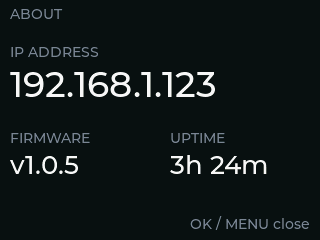
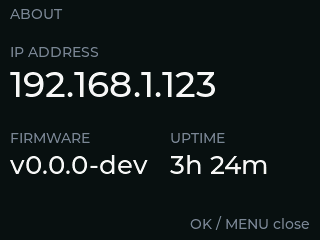
Derive FIRMWARE_VERSION from the git tag, not a hand-edited constant
Cutting a release was "edit version.h, commit, then tag", and the gap between
those steps was a real failure mode: the device compares the release tag_name
against FIRMWARE_VERSION with strcmp, so the two disagreeing silently breaks
updates in one direction or the other. CI guarded it. This removes it instead.

include/version.h no longer holds a version. FIRMWARE_VERSION is #ifndef'd with
a v0.0.0-dev fallback, and scripts/build_provenance.py injects the real one:

  tag build   the tag itself. This IS the string the OTA check compares, so it
              is exact by construction rather than by anyone remembering.
  otherwise   the most recent tag reachable from HEAD - what the build is BASED
              on - with ELS_BUILD_SUFFIX already carrying the branch and commit,
              so the pair reads "v1.0.5-master@9b9f04f*". `--abbrev=0` keeps it
              to the bare tag; describe's "v1.0.5-3-gabc1234" plus a suffix does
              not fit the splash's one 320px line.
  no git      the fallback, deliberately not a real-looking version so nothing
              mistakes a tarball build for a release.

Verified in all three contexts before committing, and the device build compiles
with the injected define (RAM 35.0%, Flash 77.0%, unchanged).

CONSEQUENCES, both good:

* release.yml's `verify` job is GONE. It compared the tag against version.h and
  that question can no longer be asked. What replaced it is stronger: the
[…]

Changed region(s): [[0.0625, 0.6417, 0.4688, 0.7292]]

diff --git a/scripts/build_provenance.py b/scripts/build_provenance.py
@@ -77,6 +77,25 @@ sha = _git("rev-parse", "--short", "HEAD")
 if ci_ref_type == "branch" and ci_ref_name:
     branch = ci_ref_name
 
+# THE VERSION IS THE TAG. Nothing hand-edits it, so a release cannot ship
+# naming a version other than the one it was tagged with - which was previously
+# a real failure mode standing between a commit and a tag.
+#
+#   tag build  -> the tag itself. This is the string the OTA check compares
+#                 against the release's tag_name, so it must be exact.
+#   otherwise  -> the most recent tag reachable from HEAD, which says what this
+#                 build is BASED ON. ELS_BUILD_SUFFIX already carries the branch
+#                 and commit, so the two together read "v1.0.5-master@abc1234*"
+#                 and there is no need to make the version itself long.
+#
+# `--abbrev=0` is what keeps it to the bare tag rather than describe's
+# "v1.0.5-3-gabc1234"; the splash renders version + suffix on one 320px line.
+version = None
+if ci_ref_type == "tag" and ci_ref_name:
+    version = ci_ref_name
+else:
+    version = _git("describe", "--tags", "--abbrev=0")
+
 # `git status --porcelain` is empty exactly when the tree is clean. An untracked
 # file counts: it may well be the thing that changed behaviour.
 status = _git("status", "--porcelain")
@@ -104,16 +123,26 @@ else:
         short_branch = branch if len(branch) <= 16 else branch[:15] + "~"
         suffix = "-{}@{}".format(short_branch, sha_label)
 
-env.Append(
-    CPPDEFINES=[
-        ("ELS_BUILD_IS_RELEASE", "1" if is_release else "0"),
-        ("ELS_BUILD_SHA", env.StringifyMacro(sha_label)),
-        ("ELS_BUILD_SUFFIX", env.StringifyMacro(suffix)),
-    ]
-)
+defines = [
+    ("ELS_BUILD_IS_RELEASE", "1" if is_release else "0"),
+    ("ELS_BUILD_SHA", env.StringifyMacro(sha_label)),
+    ("ELS_BUILD_SUFFIX", env.StringifyMacro(suffix)),
+]
+
+# Only override when git actually answered. A repo with no tags yet, or a build
+# from a tarball, falls through to include/version.h's fallback rather than
+# being stamped with an empty string.
+if version:
+    defines.append(("FIRMWARE_VERSION", env.StringifyMacro(version)))
+
+env.Append(CPPDEFINES=defines)
 
 print(
-    "build provenance: {} (branch={} sha={} dirty={})".format(
-        "RELEASE" if is_release else "not a release", branch, sha, dirty
+    "build provenance: {} version={} (branch={} sha={} dirty={})".format(
+        "RELEASE" if is_release else "not a release",
+        version if version else "<version.h fallback>",
+        branch,
+        sha,
+        dirty,
     )
 )

diff --git a/include/version.h b/include/version.h
@@ -1,10 +1,26 @@
 #ifndef ELS_VERSION_H
 #define ELS_VERSION_H
 
-// Firmware version. Must match the git tag used for the GitHub release
-// (leading "v"), because the OTA version check compares this string against the
-// release's `tag_name` verbatim. Bump this before publishing a new release.
-#define FIRMWARE_VERSION "v1.0.5"
+// Firmware version. DERIVED FROM THE GIT TAG, not typed here.
+//
+// scripts/build_provenance.py injects it: the tag itself on a tag build, and
+// the most recent tag on any other build (where ELS_BUILD_SUFFIX already says
+// which branch and commit it really is). It has to match the release tag
+// verbatim, because the OTA check compares this string against the release's
+// `tag_name` with strcmp - and it now does so by construction rather than by
+// somebody remembering.
+//
+// This used to be a hand-edited constant, which meant cutting a release was
+// "edit this line, commit, then tag" and left a whole failure mode where the
+// two disagreed. There is nothing to bump any more: tag the commit you want to
+// release and the firmware names itself after it.
+//
+// The fallback below is what the `native` env, the screenshot harness, and a
+// build from a tarball with no git see. It is deliberately not a real-looking
+// version: nothing should mistake one of those for a release.
+#ifndef FIRMWARE_VERSION
+#define FIRMWARE_VERSION "v0.0.0-dev"
+#endif
 
 // ---------------------------------------------------------------------------
 // BUILD PROVENANCE (GitHub issue #4)

diff --git a/CLAUDE.md b/CLAUDE.md
@@ -149,18 +149,26 @@ OTA pulls from **GitHub Releases** via the stable permalink
   hop is real but costs one handshake, not throughput.
 - RSSI is worth reading off the `OTA:` log line when an update is slow — it swung -86 to -49 dBm across
   runs on the same bench, and at the bottom of that range TLS connect itself intermittently fails.
-- **To release: push a tag. CI does the rest** (`.github/workflows/release.yml`). Bump
-  `FIRMWARE_VERSION` in `include/version.h`, commit, then `git tag v1.0.6 && git push <remote> v1.0.6`.
-  The workflow refuses to go on if the tag and `FIRMWARE_VERSION` disagree (the OTA check compares them
-  verbatim, so a mismatch silently breaks updates in one direction or the other), runs the host tests,
-  builds `esp32dev_publish`, **asserts the build stamped itself `RELEASE`**, publishes via
+- **To release: push a tag. That is the whole procedure** (`.github/workflows/release.yml`).
+  `git tag v1.0.6 && git push <remote> v1.0.6`. **There is nothing to bump first** - `include/version.h`
+  no longer holds a version. `scripts/build_provenance.py` injects `FIRMWARE_VERSION` from the tag, so
+  the string the firmware reports and the string the release is named after are the same string and the
+  old "commit says 1.0.5, tag says 1.0.6" failure cannot happen. On a non-tag build the version is the
+  most recent tag reachable from HEAD, with `ELS_BUILD_SUFFIX` saying which branch and commit it really
+  is; with no git at all it falls back to `v0.0.0-dev`, which is deliberately not a real-looking version.
+  The workflow runs the host tests,
+  builds `esp32dev_publish`, **asserts the build stamped itself `RELEASE` at the tagged version** (which
+  proves what the compiled firmware will actually report, not what a file said), publishes via
   `scripts/release.sh`, and then checks the `/latest/` permalink actually resolves and that the API's
   `tag_name` matches. Publish full releases, never drafts or pre-releases, or that permalink resolves to
   nothing.
-- `scripts/release.sh` is still the only place that knows the asset must be named `elstft.bin` and that the
-  version comes from `version.h`; CI calls it rather than reimplementing it, and it still works by hand on
-  the bench (`pio run -e esp32dev_publish` then `bash scripts/release.sh`, needs `gh auth login`). In CI it
-  generates notes from the commits since the last release; by hand it keeps its one-liner.
+- `scripts/release.sh` is still the only place that knows the asset must be named `elstft.bin`; CI calls it
+  rather than reimplementing it. It takes the version from the tag - `GITHUB_REF_NAME` in CI, and
+  `git describe --tags --exact-match` on the bench, which **refuses to publish unless HEAD is actually
+  tagged**: whatever was built otherwise carries the PREVIOUS tag's version, so publishing it would be a
+  lie. By hand it is still `pio run -e esp32dev_publish` then `bash scripts/release.sh` (needs
+  `gh auth login`). In CI it generates notes from the commits since the last release; by hand it keeps
+  its one-liner.
 - **`scripts/build_provenance.py` reads `GITHUB_REF_TYPE`/`GITHUB_REF_NAME` before it reads git.** It has to:
   `actions/checkout` produces a DETACHED HEAD, so the local "clean tree on master" rule can never pass on a
   runner, and every CI build - including the released one - would stamp itself "not a release" and put a SHA
